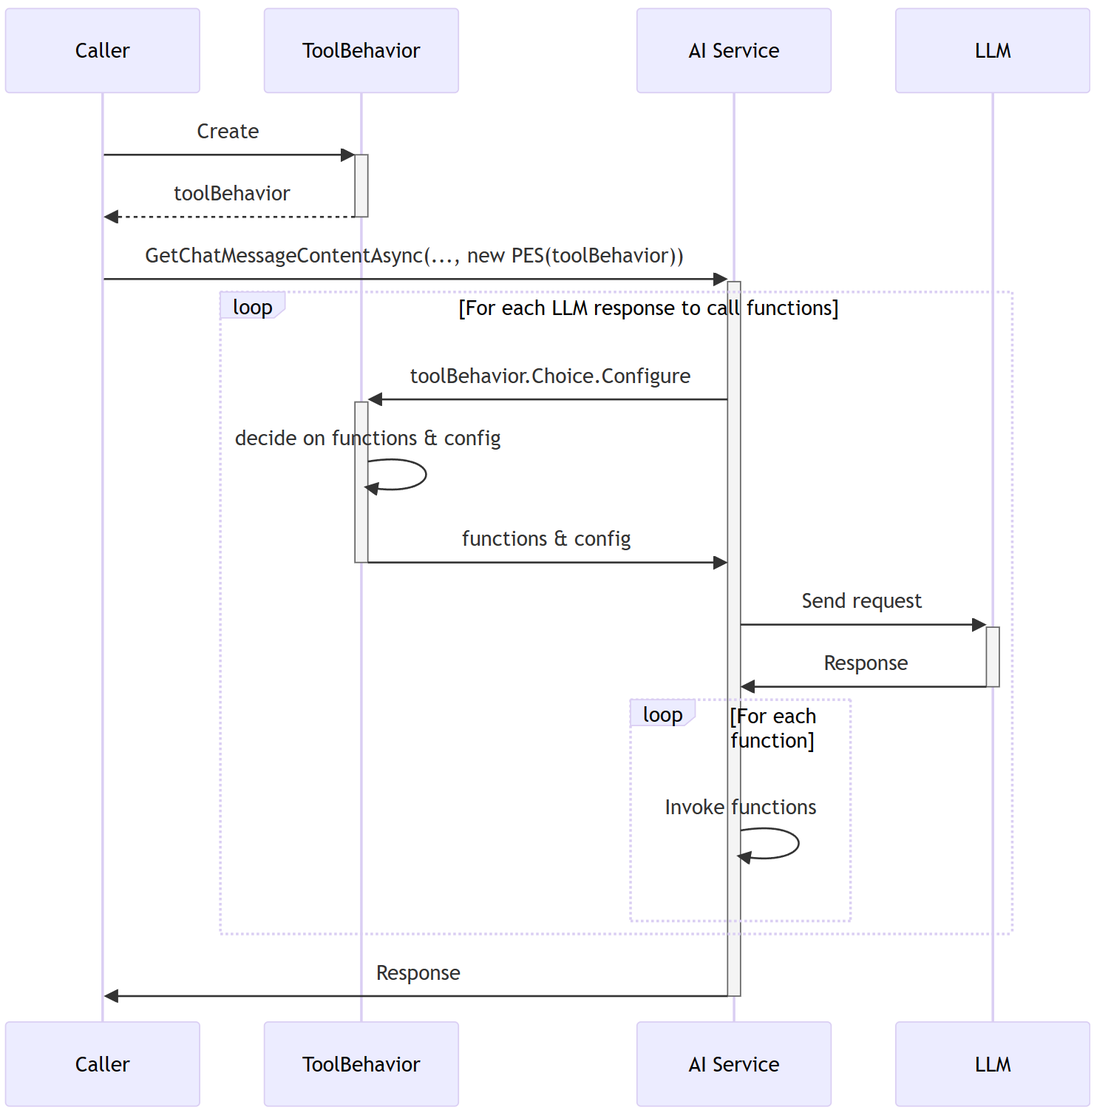
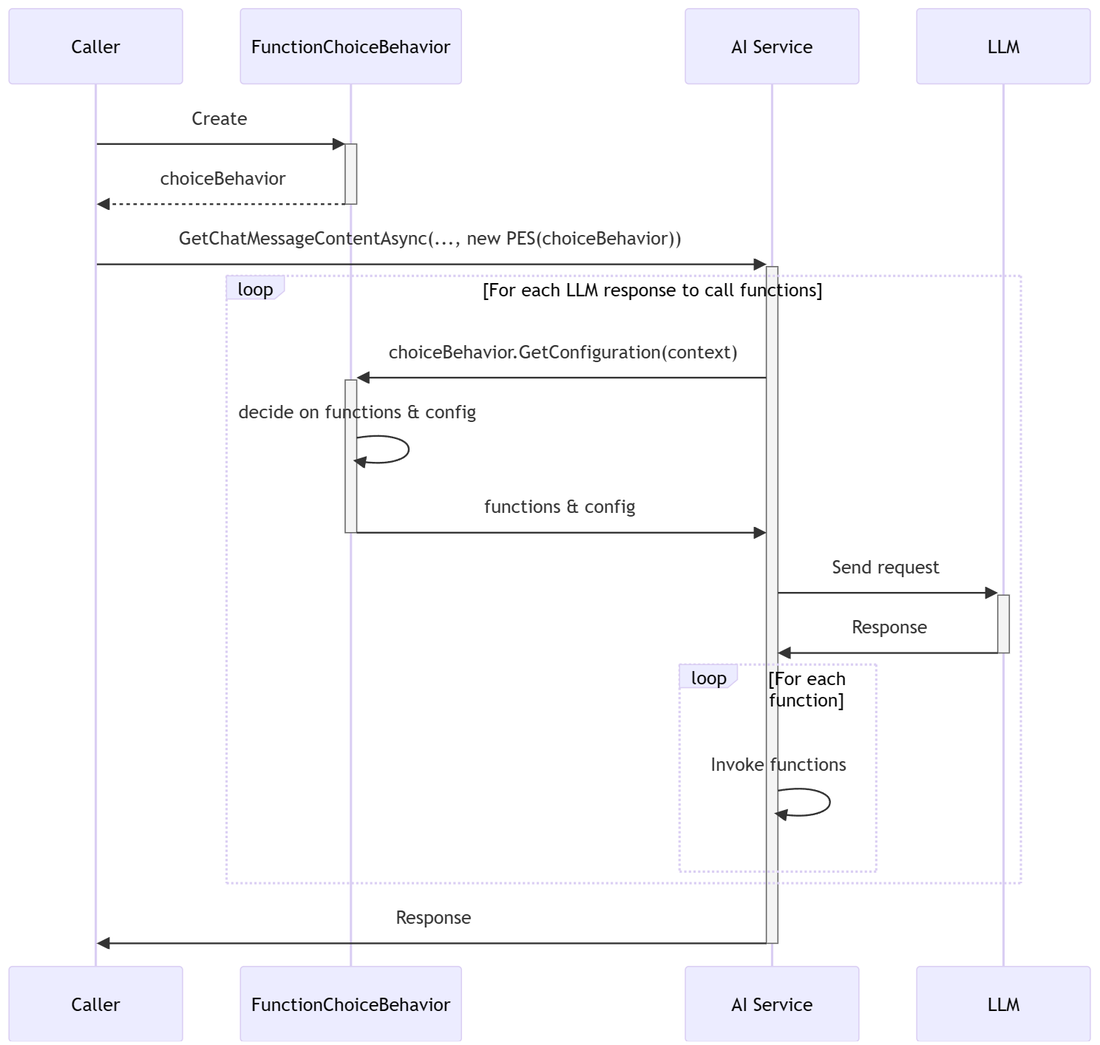
update ADR to reflect latet state of code

diff --git a/docs/decisions/0044-function-call-behavior.md b/docs/decisions/0044-function-call-behavior.md
@@ -38,60 +38,29 @@ GeminiPromptExecutionSettings settings = new() { ToolCallBehavior = GeminiToolCa
 
 Taking into account that the function-calling behavior has been around since SK v1 release and might be used extensively as a result, the new function-calling abstraction must be introduced and coexist alongside the existing function-calling model. This will prevent breaking changes and allow consumers to gradually migrate from the current model to the new one.
 
-## [New model] Option 1.1 - A class per specialization of tool behavior and function call choice
+## [New model] Option 1.1 - A class per function call choice
 To satisfy the "no breaking changes" requirement above and the "connector/mode-agnostic model" decision driver, the new set of connector agnostic classes needs to be introduced.
 
-### Tool behavior classes
-The `ToolBehavior` class is an abstract base class for all existing and new *Behavior classes. The `FunctionCallBehavior` represents the configuration for function call behavior and is currently the only derivative of the `ToolBehavior` class that SK has.
-
-```csharp
-public abstract class ToolBehavior
-{
-}
-
-public class FunctionCallBehavior : ToolBehavior
-{
-    [JsonPropertyName("choice")]
-    public FunctionCallChoice Choice { get; init; } = new NoneFunctionCallChoice();
-
-    [JsonPropertyName("parallel")]
-    public bool InvokeInParallel { get; init; } = false;  // Can be added later.
-
-    public static FunctionCallBehavior AutoFunctionChoice(IEnumerable<KernelFunction>? enabledFunctions = null, bool autoInvoke = true) { ... }
-    public static FunctionCallBehavior RequiredFunctionChoice(IEnumerable<KernelFunction> functions, bool autoInvoke = true) { ... }
-    public static FunctionCallBehavior None { get { ... }; } 
-}
-
-// This is an example of how code interpreter tool can be modeled
-public class CodeInterpreterBehavior : ToolBehavior
-{
-    public string Language { get; init; } = "Python"
-    // Other code interpreter specific config props
-}
-```
-
-To satisfy the "connector/mode-agnostic model" driver, the behavior should not be configured on model-specific prompt execution setting classes, such as `OpenAIPromptExecutionSettings`, as it is done today. Instead, it should be configured on a model-agnostic one, like `PromptExecutionSettings`. Considering that new tools may become available in the future, it makes sense to provide the ability to easily support them. This way, later on, it would simply be a matter of adding a new directive of the `ToolBehavior` class and assigning its instance to the `ToolBehavior` property.
-
-```csharp
-PromptExecutionSettings settings = new() { ToolBehavior = FunctionCallBehavior.AutoFunctionChoice(autoInvoke: false) };
-```
-
 ### Function call choice classes 
-The `FunctionCallChoice` class is abstract base class for all *FunctionCallChoice classes:
+The `FunctionChoiceBehavior` class is abstract base class for all *FunctionChoiceBehavior classes:
 
 ```csharp
-public abstract class FunctionCallChoice
+public abstract class FunctionChoiceBehavior
 {
-    public abstract FunctionCallChoiceConfiguration Configure(FunctionCallChoiceContext context);
+    public static FunctionChoiceBehavior AutoFunctionChoice(IEnumerable<KernelFunction>? functions = null, bool autoInvoke = true) { ... }
+    public static FunctionChoiceBehavior RequiredFunctionChoice(IEnumerable<KernelFunction>? functions = null, bool autoInvoke = true) { ... }
+    public static FunctionChoiceBehavior None { get { ... }; }
+
+    public abstract FunctionChoiceBehaviorConfiguration GetConfiguration(FunctionChoiceBehaviorContext context);
 }
 ```
 
-All the `FunctionCallChoice` derivatives must implement the abstract `Configure` method, which is called with the `FunctionCallChoiceContext` provided by connectors. This method returns the `FunctionCallChoiceConfiguration` back to the connectors, instructing them to behave in a specific way described by a function call choice with respect to function calling.
+All the `FunctionChoiceBehavior` derivatives must implement the abstract `GetConfiguration` method, which is called with the `FunctionChoiceBehaviorContext` provided by connectors. This method returns the `FunctionChoiceBehaviorConfiguration` back to the connectors, instructing them to behave in a specific way described by a particular function call choice behavior class with respect to function calling.
+
 ```csharp
-public class FunctionCallChoiceContext
+public class FunctionChoiceBehaviorContext
 {
     public Kernel? Kernel { get; init; }
-    public object? Model { get; init; } // Internal connector model
 }
 
 public class FunctionCallChoiceConfiguration
@@ -101,19 +70,18 @@ public class FunctionCallChoiceConfiguration
     public bool? AllowAnyRequestedKernelFunction { get; init; }
     public int? MaximumAutoInvokeAttempts { get; init; }
     public int? MaximumUseAttempts { get; init; }
-    public object? Model { get; init; }
 }
 ```
 
-The `AutoFunctionCallChoice` class advertises either all kernel functions or a subset of functions, and instructs LLM to either call one or multiple advertised functions or return a natural language response.
+The `AutoFunctionChoiceBehavior` class advertises either all kernel functions or a subset of functions, and instructs LLM to either call one or multiple advertised functions or return a natural language response.
 ```csharp
-public sealed class AutoFunctionCallChoice : FunctionCallChoice
+public sealed class AutoFunctionChoiceBehavior : FunctionChoiceBehavior
 {
-    internal const int DefaultMaximumAutoInvokeAttempts = 5;
+    private const int DefaultMaximumAutoInvokeAttempts = 5;
 
     [JsonConstructor]
-    public AutoFunctionCallChoice() { }
-    public AutoFunctionCallChoice(IEnumerable<KernelFunction> functions) { ... }
+    public AutoFunctionChoiceBehavior() { }
+    public AutoFunctionChoiceBehavior(IEnumerable<KernelFunction> functions) { ... }
 
     [JsonPropertyName("maximumAutoInvokeAttempts")]
     public int MaximumAutoInvokeAttempts { get; init; } = DefaultMaximumAutoInvokeAttempts;
@@ -124,11 +92,15 @@ public sealed class AutoFunctionCallChoice : FunctionCallChoice
     [JsonPropertyName("allowAnyRequestedKernelFunction")]
     public bool AllowAnyRequestedKernelFunction { get; init; }
 
-    public override FunctionCallChoiceConfiguration Configure(FunctionCallChoiceContext context)
+    public override FunctionChoiceBehaviorConfiguration GetConfiguration(FunctionChoiceBehaviorContext context)
     {
+        // Handle functions provided via constructor as function instances.
         ...
+        // Or, handle functions provided via the 'Functions' property as function fully qualified names.
+        ...
+        // Or, provide all functions from the kernel.
 
-        return new FunctionCallChoiceConfiguration()
+        return new FunctionChoiceBehaviorConfiguration()
         {
             AvailableFunctions = availableFunctions,
             MaximumAutoInvokeAttempts = this.MaximumAutoInvokeAttempts,
@@ -138,16 +110,16 @@ public sealed class AutoFunctionCallChoice : FunctionCallChoice
 }
 ```
 
-The `RequiredFunctionCallChoice` class advertises subset of kernel functions and forces LLM to call one or a few of them.
+The `RequiredFunctionChoiceBehavior` class advertises either all kernel functions or a subset of functions and forces LLM to call one or a few of them.
 ```csharp
-public sealed class RequiredFunctionCallChoice : FunctionCallChoice
+public sealed class RequiredFunctionChoiceBehavior : FunctionChoiceBehavior
 {
-    internal const int DefaultMaximumAutoInvokeAttempts = 5;
-    internal const int DefaultMaximumUseAttempts = 1;
+    private const int DefaultMaximumAutoInvokeAttempts = 5;
+    private const int DefaultMaximumUseAttempts = 1;
 
     [JsonConstructor]
-    public RequiredFunctionCallChoice() { }
-    public RequiredFunctionCallChoice(IEnumerable<KernelFunction> functions) { ... }
+    public RequiredFunctionChoiceBehavior() { }
+    public RequiredFunctionChoiceBehavior(IEnumerable<KernelFunction> functions) { ... }
 
     [JsonPropertyName("functions")]
     public IEnumerable<string>? Functions { get; init; }
@@ -158,46 +130,56 @@ public sealed class RequiredFunctionCallChoice : FunctionCallChoice
     [JsonPropertyName("maximumUseAttempts")]
     public int MaximumUseAttempts { get; init; } = DefaultMaximumUseAttempts;
 
-    public override FunctionCallChoiceConfiguration Configure(FunctionCallChoiceContext context)
+    public override FunctionChoiceBehaviorConfiguration GetConfiguration(FunctionChoiceBehaviorContext context)
     {
+        // Handle functions provided via constructor as function instances.
         ...
+        // Or, handle functions provided via the 'Functions' property as function fully qualified names.
+        ...
+        // Or, provide all functions from the kernel.
 
         return new FunctionCallChoiceConfiguration()
         {
             RequiredFunctions = requiredFunctions,
             MaximumAutoInvokeAttempts = this.MaximumAutoInvokeAttempts,
             MaximumUseAttempts = this.MaximumUseAttempts,
-            AllowAnyRequestedKernelFunction = false
+            AllowAnyRequestedKernelFunction = allowAnyRequestedKernelFunction
         };
     }
 }
 ```
 
-The `NoneFunctionCallChoice` class instructs the model not to call functions.
+The `NoneFunctionChoiceBehavior` class instructs the model not to call functions.
 ```csharp
-public sealed class NoneFunctionCallChoice : FunctionCallChoice
+public sealed class NoneFunctionChoiceBehavior : FunctionChoiceBehavior
 {
-    public override FunctionCallChoiceConfiguration Configure(FunctionCallChoiceContext context)
+    public override FunctionChoiceBehaviorConfiguration GetConfiguration(FunctionChoiceBehaviorContext context)
     {
-        return new FunctionCallChoiceConfiguration()
+        return new FunctionChoiceBehaviorConfiguration()
         {
-            MaximumAutoInvokeAttempts = 0,
-            MaximumUseAttempts = 0,
-            AllowAnyRequestedKernelFunction = false
+            AvailableFunctions = null,
+            RequiredFunctions = null,
         };
     }
 }
 ```
-### Sequence diagram
-<img src="./diagrams/tool-behavior-usage-by-ai-service.png" alt="Tool behavior usage by AI service.png" width="600"/>
 
-### Breaking glass support
+To satisfy the "connector/mode-agnostic model" driver, the behavior should not be configured on model-specific prompt execution setting classes, such as `OpenAIPromptExecutionSettings`, as it is done today. Instead, it should be configured on a model-agnostic one - `PromptExecutionSettings`.
+
+```csharp
+PromptExecutionSettings settings = new() { FunctionChoiceBehavior = FunctionChoiceBehavior.RequiredFunctionChoice() };
+```
+
+### Sequence diagram
+<img src="./diagrams/tool-behavior-usage-by-ai-service.png" alt="Tool choice behavior usage by AI service.png" width="600"/>
+
+### [Out of scope]Breaking glass support
 The list of choice classes described above may not be sufficient to support all scenarios users might encounter. To accommodate these, the `FunctionCallChoice.Configure` method accepts an instance of model a connector use internally, allowing users to access and modify it from within the config method of a custom function call choice.
 ```csharp
 // Custom function call choice
-public sealed class NewCustomFunctionCallChoice : FunctionCallChoice
+public sealed class NewCustomFunctionChoiceBehavior : FunctionChoiceBehavior
 {
-    public override FunctionCallChoiceConfiguration Configure(FunctionCallChoiceContext context)
+    public override FunctionChoiceBehaviorConfiguration GetConfiguration(FunctionChoiceBehaviorContext context)
     {
         var model = context.Model;
 
@@ -205,7 +187,7 @@ public sealed class NewCustomFunctionCallChoice : FunctionCallChoice
         ((CompletionsOptions)model).ToolChoice = new ChatCompletionsToolChoice(new FunctionDefinition("NEW-TOOL-CHOICE-MODE"));
         ((CompletionsOptions)model).Tools.Add(new ChatCompletionsFunctionToolDefinition(<functions-to-advertise>);
  
-        return new FunctionCallChoiceConfiguration()
+        return new FunctionChoiceBehaviorConfiguration()
         {
             Model = model; // Return the model back to the calling connector to indicate that we control the function call choice ourselves, and there is no need to apply the mapping logic connector side that would be applied otherwise.
             MaximumAutoInvokeAttempts = this.MaximumAutoInvokeAttempts,
@@ -217,84 +199,80 @@ public sealed class NewCustomFunctionCallChoice : FunctionCallChoice
 ...
 
 // Registering the custom choice
-PromptExecutionSettings settings = new() { ToolBehavior = new FunctionCallBehavior { Choice = new NewCustomFunctionCallChoice() } };
+PromptExecutionSettings settings = new() { FunctionChoiceBehavior = new NewCustomFunctionChoiceBehavior() };
 ```
 
 ### Support in JSON prompts
-Taking into account the hierarchical nature of the behavior and choice model classes described above, polymorphic deserialization should be enabled for cases when tool behavior and function-calling choices need to be configured in JSON prompts like MD and Kernel (config.json) prompts. The same applies to YAML prompts like handlebars described in the next section.
+Considering the hierarchical nature of the choice behavior model classes, polymorphic deserialization should be enabled for instances when functional choice behavior needs to be configured in JSON prompts - MD and Kernel (config.json) prompts, as well as YAML prompts - handlebars.
 ```json
 {
     ...
     "execution_settings": {
         "default": {
             "temperature": 0.4,
-            "tool_behavior": {
-                "type": "functions_call_behavior",
-                "choice":{
-                    "type": "auto",
-                    "functions":[
-                        "plugin1.function1"
-                    ]
-                }
+            "function_choice_behavior": {
+                "type": "auto", //possible values - auto, required, none
+                "functions": [
+                    "plugin1.function1"
+                ],
+                "maximumAutoInvokeAttempts": 5,
             }
         }
     }
 }
 ```
-Polymorphic deserialization is supported by System.Text.Json.JsonSerializer, which SK uses for working with JSON content. The JsonSerializer requires registering all the types that will be used during deserialization. This can be done either by annotating the base class with the JsonDerivedType attribute to specify a subtype of the base type, or alternatively, by registering the subtypes in TypeInfoResolver, which needs to be supplied via JsonSerializerOptions for use during deserialization. More details can be found here: [Serialize polymorphic types](https://learn.microsoft.com/en-us/dotnet/standard/serialization/system-text-json/polymorphism?pivots=dotnet-8-0).
-
-To support custom tool behaviors or function call choices, the custom types should be registered for polymorphic deserialization. Clearly, the approach using the JsonDerivedType attribute is not viable, as users cannot annotate either `ToolBehavior` or `FunctionCallChoice` SK classes. However, they could register their custom type resolver that would register their custom type(s) if they had access to JsonSerializerOptions used by JsonSerializer during deserialization. Unfortunately, SK does not expose those options publicly today. Even if it had, there are YAML prompts that are deserialized by the YamlDotNet library that would require same custom types supplied via YAML specific deserializer extensibility mechanisms - YamlTypeConverter. This would mean that if a user wants the same custom function calling choice to be used in both YAML and JSON prompts, they would have to register the same custom type twice - for JSON via a custom type resolver and for YAML via a custom YamlTypeConverter. That would also require a mechanism of supplying custom resolvers/converters to all SK `CreateFunctionFrom*Prompt` extension methods.
-
-### Support in YAML prompts
-YamlDotNet uses a slightly different approach for polymorphic deserialization out of the box, utilizing YAML tags. You can find more details at this link: https://github.com/aaubry/YamlDotNet/issues/343. So, below is the YAML variant of the JSON above. Note that there is no 'type' property, and YAML tags !function_call_behavior and !auto are used instead:
 ```yaml
 execution_settings:
   default:
     temperature: 0.4
-      !function_call_behavior
-      choice: !auto
-        functions:
-          - p1.f1
+    function_choice_behavior:
+      type: auto
+      maximum_auto_invoke_attempts: 5
+      functions:
+      - plugin1.function1
 ```
+Polymorphic deserialization is supported by System.Text.Json.JsonSerializer, which SK uses for working with JSON content. The JsonSerializer requires registering all the types that will be used for polymorphic deserialization. This can be done either by annotating the base class with the JsonDerivedType attribute to specify a subtype of the base type, or alternatively, by registering the subtypes in TypeInfoResolver, which needs to be supplied via JsonSerializerOptions for use during deserialization. More details can be found here: [Serialize polymorphic types](https://learn.microsoft.com/en-us/dotnet/standard/serialization/system-text-json/polymorphism?pivots=dotnet-8-0).
 
-### Tool behavior section location
-SK prompts may have one or more entries, one per service, of execution settings to describe service-specific configurations in a prompt. Considering that each section is deserialized to an instance of the `PromptExecutionSettings` class and that class is used by the corresponding service, it makes sense to specify the tool behavior in each service configuration section. On the other hand, this may introduce unnecessary duplication because all services might need exactly the same behavior. Additionally, there could be scenarios where 2 out of 3 services use the same tool behavior configuration, while the remaining one uses a different one.
+To support custom function choice behaviors, the custom types should be registered for polymorphic deserialization. Clearly, the approach using the JsonDerivedType attribute is not viable, as users cannot annotate `FunctionChoiceBehavior` SK class. However, they could register their custom type resolver that would register their custom type(s) if they had access to JsonSerializerOptions used by JsonSerializer during deserialization. Unfortunately, SK does not expose those options publicly today. Even if it had, there are YAML prompts that are deserialized by the YamlDotNet library that would require same custom types supplied via YAML specific deserializer extensibility mechanisms - YamlTypeConverter. This would mean that if a user wants the same custom function calling choice to be used in both YAML and JSON prompts, they would have to register the same custom type twice - for JSON via a custom type resolver and for YAML via a custom YamlTypeConverter. That would also require a mechanism of supplying custom resolvers/converters to all SK `CreateFunctionFrom*Prompt` extension methods.
+
+### Location of the function choice behavior node
+SK prompts may have one or more entries, one per service, of execution settings to describe service-specific configurations in a prompt. Considering that each section is deserialized to an instance of the `PromptExecutionSettings` class and that class is used by the corresponding service, it makes sense to specify the function behavior in each service configuration section. On the other hand, this may introduce unnecessary duplication because all services might need exactly the same choice behavior. Additionally, there could be scenarios where 2 out of 3 services use the same choice behavior configuration, while the remaining one uses a different one.
 ```json
-"tool_behavior":{
+"function_choice_behavior":{
     ...
 },
 "execution_settings": {
    "default": {
      "temperature": 0,
-     "tool_behavior":{
+     "function_choice_behavior":{
         ...
      }
    },
    "gpt-3.5-turbo": {
      "model_id": "gpt-3.5-turbo-0613",
      "temperature": 0.1,
-     "tool_behavior":{
+     "function_choice_behavior":{
         ...
      }
    },
    "gpt-4": {
      "model_id": "gpt-4-1106-preview",
      "temperature": 0.3,
-     "tool_behavior":{
+     "function_choice_behavior":{
         ...
      }
    }
  }
 ```
-To accommodate the scenarios above, it makes sense to introduce an inheritance mechanism that would inherit parent tool behavior configuration if specified on the parent. Regardless of whether the parent has tool behavior configurations or not, it should be possible to specify or override the parent one at each service entry level.
+To accommodate the scenarios above, it makes sense to introduce an inheritance mechanism that would inherit the parent function choice behavior configuration, if specified. Regardless of whether the parent has a function choice behavior configuration specified or not, it should be possible to specify or override the parent's configuration at each service entry level.
 
 ## [New model] Option 1.2 - alternative design
 Explore the possibility of resolving specific types at a later post-deserialization phase and in a location with access to a kernel instance, so no polymorphic deserialization would be required. This would allow for the resolution of custom classes registered by users in the kernel service collection. Users will simply register the custom classes that will be automatically picked either during prompt rendering or at the moment the information is required, regardless of the prompt format - JSON or YAML.
 
 ## 2. Separation of function call choice and function invocation configs
-The new model should support scenarios in which the prompt is engineered by one person and executed or invoked by another. One way to achieve this is to separate function call choice configuration - auto, enabled, none - from function invocation configuration, such as MaximumAutoInvokeAttempts, InvokeInParallel, etc. The function call choice configuration can still be provided through PromptExecutionSettings, while the appropriate location for supplying the function invocation configuration needs to be identified. It should be possible to override function call choice from the code as well. Below are several options considering potential places for supplying function invocation configuration via the code:
+The new model should support scenarios in which the prompt is engineered by one person and executed or invoked by another. One way to achieve this is to separate function  choice behavior configuration - auto, enabled, none - from function invocation configuration, such as MaximumAutoInvokeAttempts, InvokeInParallel, etc. The function choice behavior configuration can still be provided through PromptExecutionSettings, while the appropriate location for supplying the function invocation configuration needs to be identified. It should be possible to override function choice behavior from the code as well. Below are several options considering potential places for supplying function invocation configuration via the code:
 
-### Option 2.1 - Supplying config as a parameter of the `IChatCompletionService.GetChatMessageContentsAsync` and `IChatCompletionService.GetStreamingChatMessageContentsAsync` methods.
+### Option 2.1 - Supplying function invocation config as a parameter of the `IChatCompletionService.GetChatMessageContentsAsync` and `IChatCompletionService.GetStreamingChatMessageContentsAsync` methods.
 Pros:  
 - The function invocation configuration can be supplied per operation, rather than per AI service configuration.  
    
@@ -302,7 +280,7 @@ Cons:
 - Adding a new parameter to the interface methods will introduce breaking changes that will affect all non-SK custom implementations of the interface.  
 - This approach deviates from the current development experience, where both configurations are supplied via connector-specific prompt execution settings.
 
-### Option 2.2 - Supplying config as a constructor parameter of each implementation of the `IChatCompletionService` interface.
+### Option 2.2 - Supplying function invocation config as a constructor parameter of each implementation of the `IChatCompletionService` interface.
 Pros:  
 - No need to change the interface method signatures - so no non-SK custom implementations will be broken.  
    
@@ -311,7 +289,7 @@ Cons:
 - This approach will require adding overloaded constructors for all AI SK services/connectors. This may potentially cause the "ambiguous constructor" problem that may require an additional solution.  
 - This approach deviates from the current development experience, where both configurations are supplied via connector-specific prompt execution settings.
 
-### Option 2.3 - Supplying config via a new `Kernel.FunctionInvocationConfig` property.
+### Option 2.3 - Supplying function invocation config via a new `Kernel.FunctionInvocationConfig` property.
 Pros:
 - No breaking changes - neither `IChatCompletionService` members signatures nor its implementation constructors signatures are changed.
 
@@ -320,7 +298,7 @@ Cons:
 - Kernel gets more AI connector specific logic.
 - This approach deviates from the current development experience, where both configurations are supplied via connector-specific prompt execution settings.
 
-### Option 2.4 - Supplying config via `Kernel.Data` collection.
+### Option 2.4 - Supplying function invocation config via `Kernel.Data` collection.
 Pros:  
 - No breaking changes - neither `IChatCompletionService` member signatures nor its implementation constructor signatures are changed.  
 - No AI connector-specific logic is added to the Kernel.  
@@ -330,9 +308,9 @@ Cons:
 - A new kernel needs to be created or an existing one needs to be cloned every time a different configuration is required.  
 - This approach deviates from the current development experience, where both configurations are supplied via connector-specific prompt execution settings.
 
-### Option 2.5 - Supplying config via `PromptExecutionSettings`.
+### Option 2.5 - Existing approach - supplying function invocation config via `PromptExecutionSettings`.
 Pros:
-- This approach is the same as the current one, where both configurations are supplied via connector-specific prompt execution settings.
+- This is the existing approach, where both configurations are supplied via connector-specific prompt execution settings.
 - No breaking changes - neither IChatCompletionService member signatures nor its implementation constructor signatures are changed.
 
 Cons:
